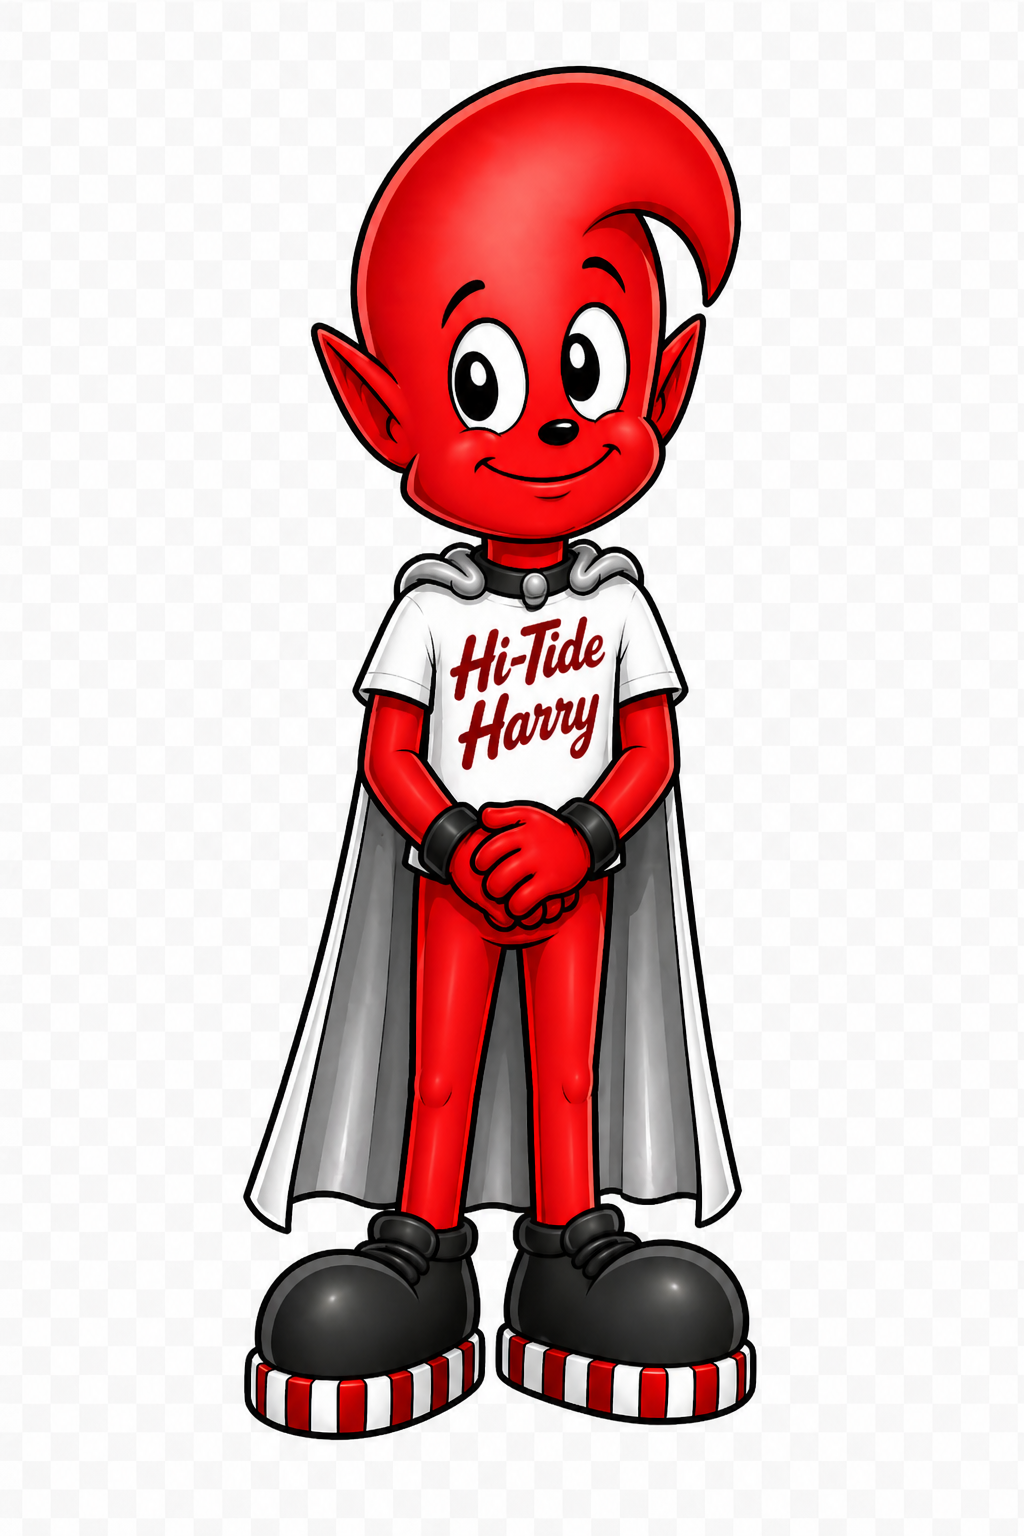
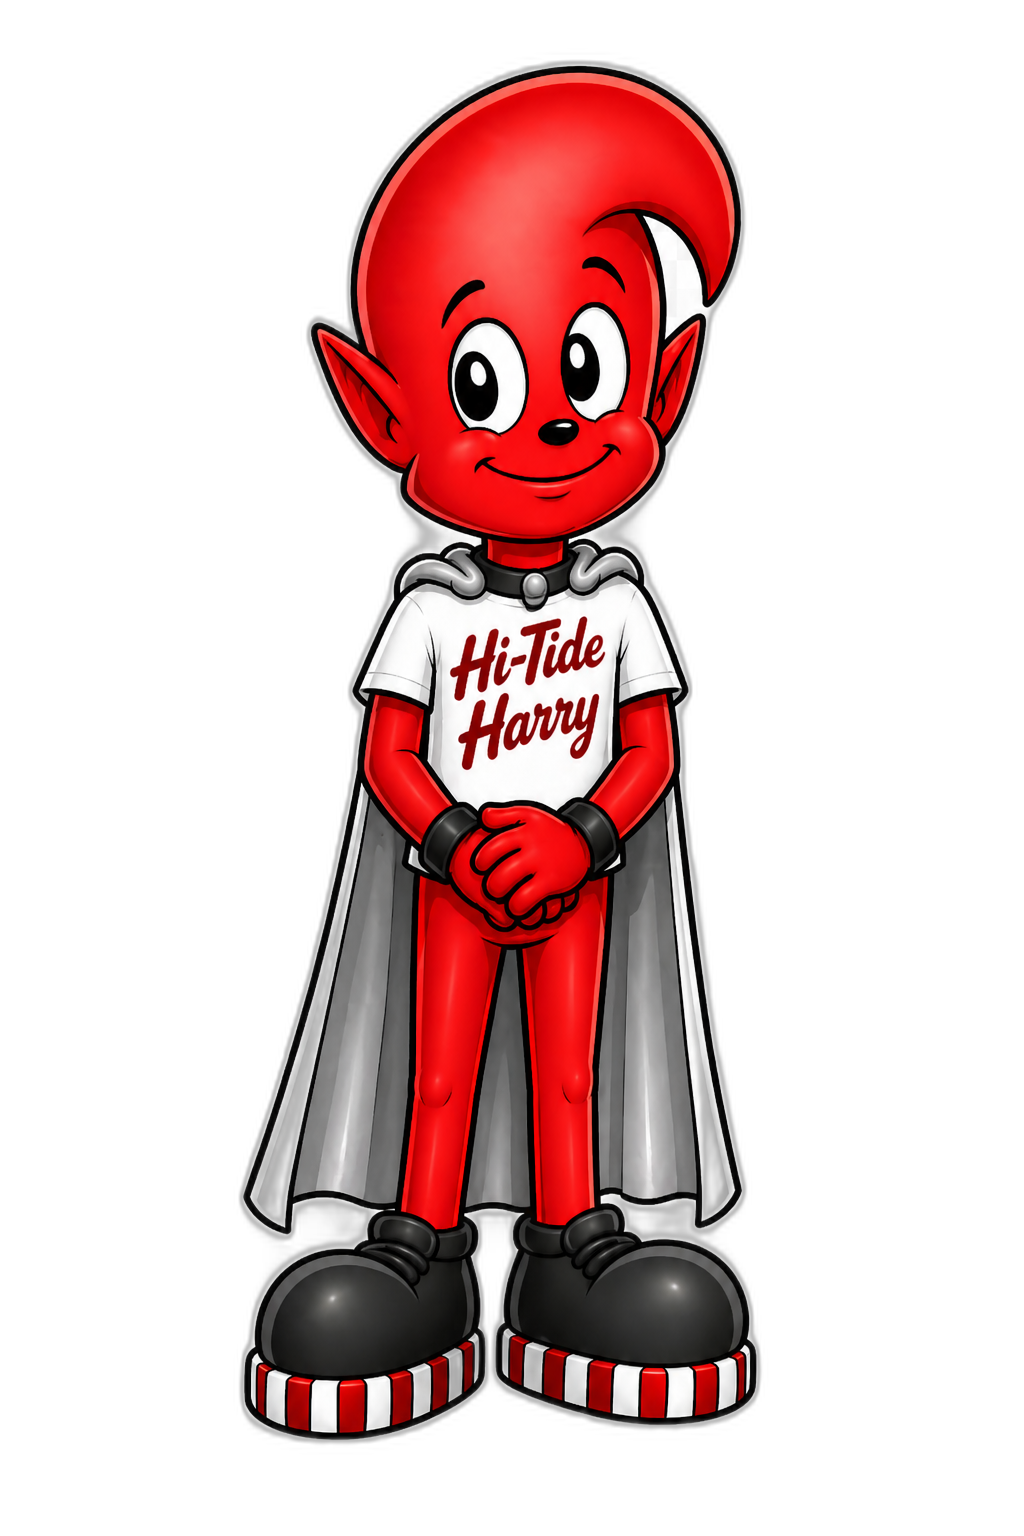
audit: pre-prod cleanup pass
Hi-Tide Harry asset cleanup:
  - rembg'd 06-listening.png (chatbot bubble on every page) — was RGB
    with white bg showing through the red chat-bubble circle
  - rembg'd 08-pointing.png, 09-confused.png, 10-running.png — all RGB
    with white halos around the figure on transparent backgrounds
  - Removed the legacy static rsvp-form-wrap__harry (08-pointing) — the
    JS injects 12-clipboard for that section now
  - Removed the legacy static page-mascot--running on tickets — the JS
    injects 13-ticket-stub for that section now

Through-Years simplified for launch:
  The era gallery's abstract red/teal AI imagery doesn't tell any
  actual MBSH story. Replaced the 5-era timeline with a poster-style
  'A century of Hi-Tides' panel that lists the eras in roman numerals
  with one-line teasers and a 'Coming soon — committee curating' note.
  The memory submission form below remains active so the funnel is
  still open while the real archival reel comes together.

Memorial empty-state copy:
  'This page will appear once names are added by the committee' read
  as broken on a reunion site. Rewritten to set expectations: the
  committee is curating with care, missing names go to the committee
  email, every name is read aloud during the tribute.

Site-config 404 noise fixed:
  /config/site-config.json wasn't being served because the file lived
  one level above the netlify publish dir. Copied to frontend/config/
[…]

diff --git a/frontend/css/premiere.css b/frontend/css/premiere.css
@@ -3239,3 +3239,111 @@ body[data-premiere="on"] section.premiere-snap-target.is-arriving {
 /* The legacy .page-note__inner / .page-note__body / .page-note__copy
    blocks are dormant once mountBillboard fills the host. They remain
    defined above for any page that hasn't migrated yet. */
+
+/* ─────────────────────────────────────────────────────────────────────────
+   Pre-prod audit: Through-Years simplified-for-launch poster + memorial
+   empty-state styling.
+   ──────────────────────────────────────────────────────────────────────── */
+body[data-premiere="on"] .timeline--coming-soon {
+  min-height: 100vh;
+  display: flex; align-items: center; justify-content: center;
+  padding: 6rem 1.5rem 4rem;
+  background: var(--c-night, #05050B);
+}
+body[data-premiere="on"] .timeline-poster {
+  width: min(640px, 100%);
+  text-align: center;
+  background: linear-gradient(180deg, #1a0c08 0%, #0c0604 100%);
+  border: 1px solid rgba(201,167,94,0.45);
+  padding: 3rem 1.8rem 2.4rem;
+  position: relative;
+  box-shadow: 0 20px 60px rgba(0,0,0,0.55), inset 0 0 60px rgba(201,167,94,0.06);
+}
+body[data-premiere="on"] .timeline-poster::before {
+  content: ""; position: absolute; inset: 8px;
+  border: 1px solid rgba(201,167,94,0.25);
+  pointer-events: none;
+}
+body[data-premiere="on"] .timeline-poster__eyebrow {
+  font-family: 'Cinzel', 'Playfair Display', serif;
+  letter-spacing: 0.45em;
+  font-size: 0.72rem;
+  text-transform: uppercase;
+  color: var(--c-velvet-gold, #C9A75E);
+  display: block;
+  margin: 0 0 1.4rem;
+}
+body[data-premiere="on"] .timeline-poster__headline {
+  font-family: 'Playfair Display', 'DM Serif Display', serif;
+  font-weight: 900;
+  font-size: clamp(2.4rem, 6vw, 3.4rem);
+  line-height: 1;
+  margin: 0 0 1rem;
+  color: var(--c-cream, #F4ECD8);
+  letter-spacing: -0.01em;
+}
+body[data-premiere="on"] .timeline-poster__sub {
+  font-family: 'Cormorant Garamond', Georgia, serif;
+  font-style: italic;
+  font-size: 1.08rem;
+  line-height: 1.55;
+  color: rgba(244,236,216,0.84);
+  margin: 0 auto 2rem;
+  max-width: 480px;
+}
+body[data-premiere="on"] .timeline-poster__eras {
+  list-style: none;
+  margin: 0 auto 1.6rem;
+  padding: 0;
+  text-align: left;
+  max-width: 460px;
+  display: flex;
+  flex-direction: column;
+  gap: 0.55rem;
+}
+body[data-premiere="on"] .timeline-poster__eras li {
+  display: grid;
+  grid-template-columns: 2.4rem 1fr;
+  align-items: baseline;
+  padding: 0.45rem 0.25rem;
+  border-bottom: 1px dotted rgba(201,167,94,0.32);
+}
+body[data-premiere="on"] .timeline-poster__year {
+  font-family: 'Cinzel', serif;
+  font-size: 0.78rem;
+  letter-spacing: 0.18em;
+  color: var(--c-velvet-gold, #C9A75E);
+}
+body[data-premiere="on"] .timeline-poster__era {
+  font-family: 'Italiana', 'Cormorant Garamond', serif;
+  font-size: 1rem;
+  color: var(--c-cream, #F4ECD8);
+}
+body[data-premiere="on"] .timeline-poster__note {
+  font-family: 'Cutive Mono', monospace;
+  font-size: 0.7rem;
+  letter-spacing: 0.32em;
+  text-transform: uppercase;
+  color: var(--c-velvet-gold, #C9A75E);
+  opacity: 0.75;
+  margin: 0;
+}
+
+/* Memorial empty-state — when no names are loaded yet, the existing
+   ".memorial" message gets a poster treatment to match the universe. */
+body[data-premiere="on"] .memorial {
+  position: relative;
+  padding: 5rem 1.5rem 4rem;
+  text-align: center;
+  min-height: 60vh;
+  display: flex; flex-direction: column; align-items: center; justify-content: center;
+}
+body[data-premiere="on"] .memorial__empty {
+  max-width: 540px;
+  margin: 0 auto;
+  font-family: 'Cormorant Garamond', Georgia, serif;
+  font-style: italic;
+  font-size: 1.05rem;
+  line-height: 1.55;
+  color: rgba(244,236,216,0.78);
+}

diff --git a/frontend/through-years.html b/frontend/through-years.html
@@ -10,12 +10,24 @@
 <body data-page="through-years" data-premiere="on" data-snap="on">
   <header class="page-header"><a class="page-header__back" href="index.html"><img class="page-header__mark" src="assets/brand-mark/brand-mark.png" alt="" width="64" height="64"></a><h1 class="page-header__title">Through the Years</h1><p class="page-header__sub">One hundred years of Hi-Tides. The eras that built us.</p></header>
 
-  <section class="timeline" aria-label="Five-era timeline">
-    <article class="era era--1926"><span class="era__badge">1926–1959</span><div class="era__image" style="background-image: url('assets/story/era-1926-1959.jpg')"></div><p class="era__caption">The first Hi-Tides. Forty years of laying the foundation.</p></article>
-    <article class="era era--1960"><span class="era__badge">1960s–1970s</span><div class="era__image" style="background-image: url('assets/story/era-1960-1979.jpg')"></div><p class="era__caption">Coming of age in Miami Beach.</p></article>
-    <article class="era era--1980"><span class="era__badge">1980s</span><div class="era__image" style="background-image: url('assets/story/era-1980s.jpg')"></div><p class="era__caption">The decade we were born. The school they built around us.</p></article>
-    <article class="era era--1996"><span class="era__badge">1996</span><div class="era__image" style="background-image: url('assets/story/era-1996.jpg')"></div><p class="era__caption">Our year. Our halls. Our class.</p></article>
-    <article class="era era--2026"><span class="era__badge">2026</span><div class="era__image" style="background-image: url('assets/story/era-2026.jpg')"></div><p class="era__caption">One hundred years. Still rising.</p></article>
+  <!-- Through-Years simplified for launch — the centennial reel needs real
+       archival imagery + horizontal filmstrip we don't yet have.
+       Keeping the page reachable so the memory submission funnel stays open;
+       the era gallery returns once the committee's archive lands. -->
+  <section class="timeline timeline--coming-soon" aria-label="Through-the-Years overview">
+    <div class="timeline-poster">
+      <span class="timeline-poster__eyebrow">— A century of Hi-Tides —</span>
+      <h2 class="timeline-poster__headline">1926 → 2026.</h2>
+      <p class="timeline-poster__sub">The full reel — five eras, the photos, the programs, the polaroids — is in production with the committee. Add a memory below and we'll splice it into the cut.</p>
+      <ul class="timeline-poster__eras" aria-label="Eras to be screened">
+        <li><span class="timeline-poster__year">I.</span><span class="timeline-poster__era">1926–1959 · The first Hi-Tides</span></li>
+        <li><span class="timeline-poster__year">II.</span><span class="timeline-poster__era">1960s–1970s · Coming of age</span></li>
+        <li><span class="timeline-poster__year">III.</span><span class="timeline-poster__era">1980s · The decade we were born</span></li>
+        <li><span class="timeline-poster__year">IV.</span><span class="timeline-poster__era">1996 · Our year. Our halls.</span></li>
+        <li><span class="timeline-poster__year">V.</span><span class="timeline-poster__era">2026 · One hundred years. Still rising.</span></li>
+      </ul>
+      <p class="timeline-poster__note">Coming soon — the committee is curating photos and programs.</p>
+    </div>
   </section>
 
   <section class="memory-submit" id="submit-memory" aria-label="Submit a memory">

diff --git a/frontend/tickets.html b/frontend/tickets.html
@@ -81,7 +81,7 @@
 
   <nav class="compass-nav" aria-label="Site navigation"><button class="compass-nav__medallion" id="compass-nav-toggle" type="button" aria-expanded="false" aria-controls="compass-nav-items"><svg viewBox="0 0 64 64" fill="none" stroke="currentColor" stroke-width="2" aria-hidden="true"><circle cx="32" cy="32" r="28"/><circle cx="32" cy="32" r="20"/><circle cx="32" cy="32" r="3" fill="currentColor"/><path d="M32 8 L36 30 L32 28 L28 30 Z" fill="currentColor"/></svg></button><ul class="compass-nav__items" id="compass-nav-items" role="menu"><li role="none"><a href="index.html" role="menuitem">Home</a></li><li role="none"><a href="rsvp.html" role="menuitem">RSVP</a></li><li role="none"><a href="tickets.html" role="menuitem" aria-current="page">Tickets</a></li><li role="none"><a href="through-years.html" role="menuitem">Through the Years</a></li><li role="none"><a href="memorial.html" role="menuitem">In Memory</a></li><li role="none"><a href="capsule.html" role="menuitem">Time Capsule</a></li><li role="none"><a href="playlist.html" role="menuitem">Playlist</a></li></ul></nav>
   <div class="chatbot" id="chatbot"><button class="chatbot__bubble" id="chatbot-toggle" type="button" aria-expanded="false" aria-label="Open chat"><img src="assets/mascot/06-listening.png" alt="" width="64" height="64"></button><div class="chatbot__panel" id="chatbot-panel" hidden><header class="chatbot__panel-header"><img class="chatbot__panel-pose" src="assets/mascot/01-wave-hello.png" alt="" width="120" height="120"><div class="chatbot__panel-title"><strong>Hi-Tide Harry</strong><span>Reunion Assistant</span></div><button class="chatbot__close" id="chatbot-close" type="button" aria-label="Close">×</button></header><ul class="chatbot__messages" id="chatbot-messages" aria-live="polite"></ul><form class="chatbot__input" id="chatbot-form"><input type="text" id="chatbot-input" placeholder="Ask Harry&hellip;" autocomplete="off"><button type="submit">→</button></form></div></div>
-  <img class="page-mascot page-mascot--running" src="assets/mascot/10-running.png" alt="" aria-hidden="true">
+  <!-- Legacy static page-mascot removed — premiere.js injects the in-scene Harry (13-ticket-stub) into the .tickets section. -->
 
   <section class="premiere-section premiere-section--alt" aria-label="Become a patron">
     <h2 class="premiere-section__title">Become a Patron of the Premiere</h2>

diff --git a/frontend/memorial.html b/frontend/memorial.html
@@ -15,7 +15,7 @@
     <ul class="memorial__names" id="memorial-names">
       <!-- Hidden until at least one name is added; populated by memorial.js from /in-memory.php -->
     </ul>
-    <p class="memorial__empty" id="memorial-empty">This page will appear once names are added by the committee.</p>
+    <p class="memorial__empty" id="memorial-empty">The committee is curating names with care. If a classmate is missing, send their name to <a href="mailto:mbsh96reunion@gmail.com?subject=In%20Memory%20-%20add%20a%20name">mbsh96reunion@gmail.com</a>. Every name will be read aloud during the tribute on reunion night.</p>
   </section>
 
   <nav class="compass-nav" aria-label="Site navigation"><button class="compass-nav__medallion" id="compass-nav-toggle" type="button" aria-expanded="false" aria-controls="compass-nav-items"><svg viewBox="0 0 64 64" fill="none" stroke="currentColor" stroke-width="2" aria-hidden="true"><circle cx="32" cy="32" r="28"/><circle cx="32" cy="32" r="20"/><circle cx="32" cy="32" r="3" fill="currentColor"/><path d="M32 8 L36 30 L32 28 L28 30 Z" fill="currentColor"/></svg></button><ul class="compass-nav__items" id="compass-nav-items" role="menu"><li role="none"><a href="index.html" role="menuitem">Home</a></li><li role="none"><a href="rsvp.html" role="menuitem">RSVP</a></li><li role="none"><a href="tickets.html" role="menuitem">Tickets</a></li><li role="none"><a href="through-years.html" role="menuitem">Through the Years</a></li><li role="none"><a href="memorial.html" role="menuitem" aria-current="page">In Memory</a></li><li role="none"><a href="capsule.html" role="menuitem">Time Capsule</a></li><li role="none"><a href="playlist.html" role="menuitem">Playlist</a></li></ul></nav>

diff --git a/frontend/rsvp.html b/frontend/rsvp.html
@@ -39,7 +39,7 @@
     <div class="premiere-seat-row" aria-hidden="true">
       <span class="premiere-seat-row__seat"></span><span class="premiere-seat-row__seat"></span><span class="premiere-seat-row__seat"></span><span class="premiere-seat-row__seat"></span><span class="premiere-seat-row__seat"></span><span class="premiere-seat-row__seat"></span><span class="premiere-seat-row__seat"></span><span class="premiere-seat-row__seat"></span>
     </div>
-    <img class="rsvp-form-wrap__harry" src="assets/mascot/08-pointing.png" alt="Hi-Tide Harry pointing at the form">
+    <!-- Harry-in-scene (12-clipboard) is injected by premiere.js — replaces the legacy static 08-pointing. -->
     <form class="rsvp-form" id="rsvp-form" novalidate>
       <fieldset class="rsvp-form__group rsvp-form__group--always">
         <legend class="visually-hidden">Your information</legend>

diff --git a/frontend/css/footer.css b/frontend/css/footer.css
@@ -15,6 +15,7 @@
 .footer__sub { font-family: var(--font-body); font-size: 0.95rem; color: var(--c-cream); margin: 0 0 var(--space-sm); }
 .footer__tagline { font-family: var(--font-script-large); font-size: 1.5rem; color: var(--c-silver); margin: var(--space-sm) 0 0; line-height: 1; }
 .footer__social { display: flex; gap: var(--space-md); margin-top: var(--space-sm); }
+.footer__social--coming-soon { font-style: italic; opacity: 0.78; font-size: 0.92rem; }
 
 .footer__strip { display: flex; flex-direction: column; gap: var(--space-xs); padding-top: var(--space-md); border-top: 1px solid rgba(192,192,192,0.18); max-width: var(--container-width); margin: 0 auto; align-items: center; text-align: center; }
 @media (min-width: 768px) { .footer__strip { flex-direction: row; justify-content: space-between; text-align: left; } }

diff --git a/frontend/index.html b/frontend/index.html
@@ -192,9 +192,10 @@
       <div class="footer__col footer__col--contact">
         <h4>Reunion Committee</h4>
         <p><a href="mailto:mbsh96reunion@gmail.com">mbsh96reunion@gmail.com</a></p>
-        <p class="footer__social">
-          <a href="#" aria-label="Class Instagram">Instagram</a>
-          <a href="#" aria-label="Facebook reunion group">Facebook</a>
+        <!-- Class Instagram + Facebook handles pending. Hidden until URLs land
+             so we don't ship dead # links to production. -->
+        <p class="footer__social footer__social--coming-soon">
+          <span>Instagram &amp; Facebook coming soon — drop a note to the committee for a heads-up.</span>
         </p>
       </div>
       <div class="footer__col footer__col--resources">
